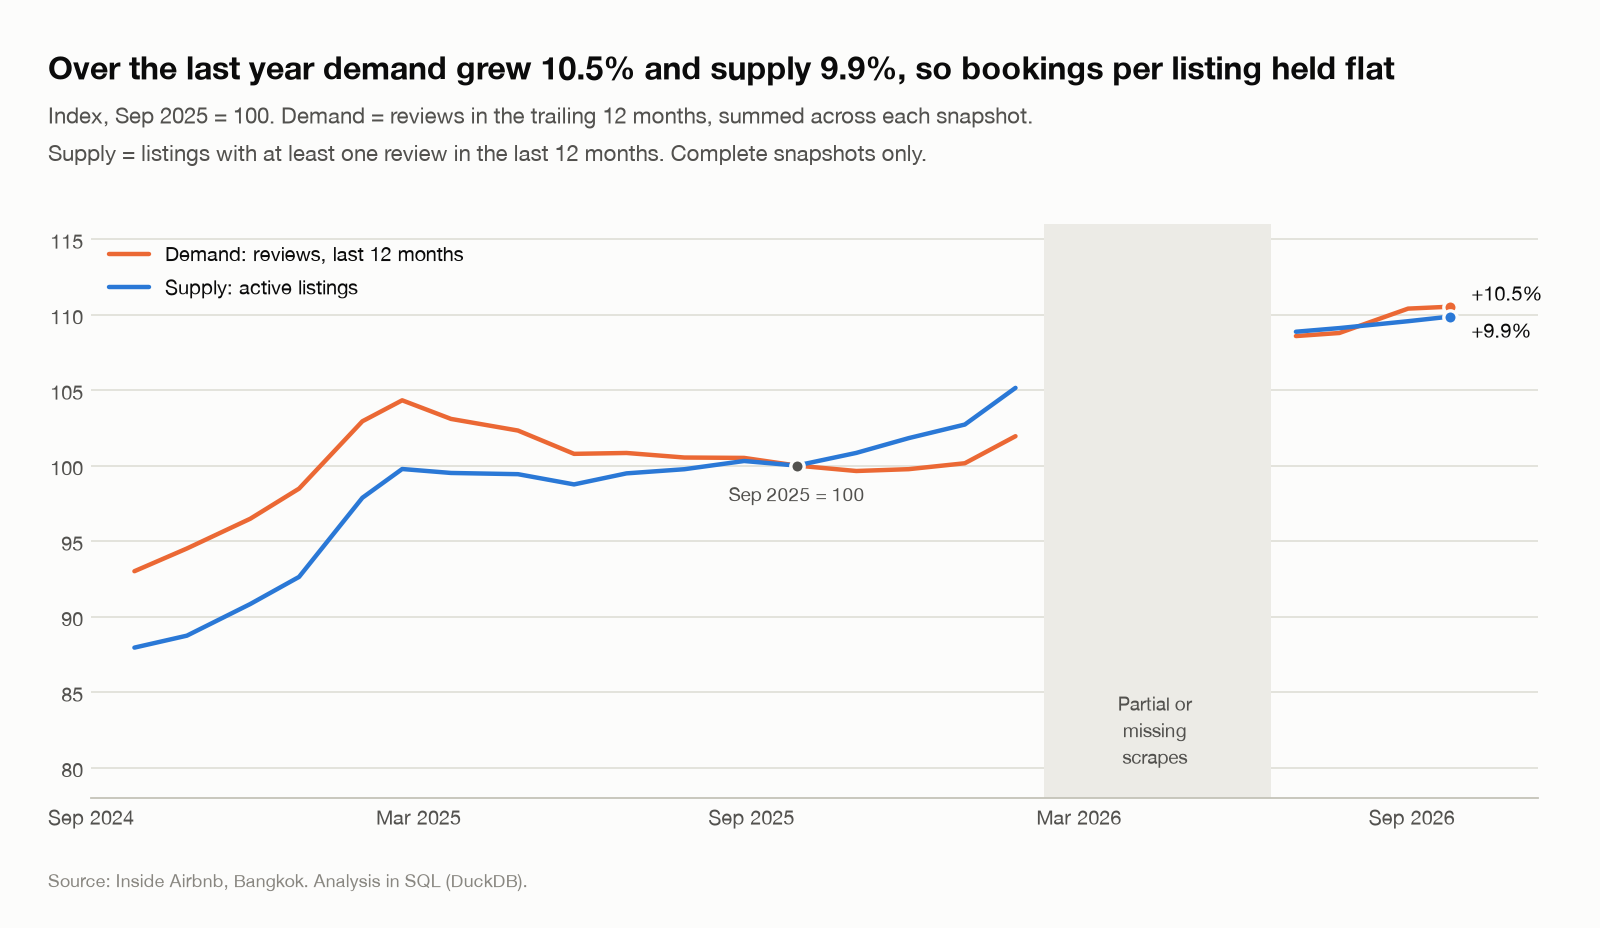
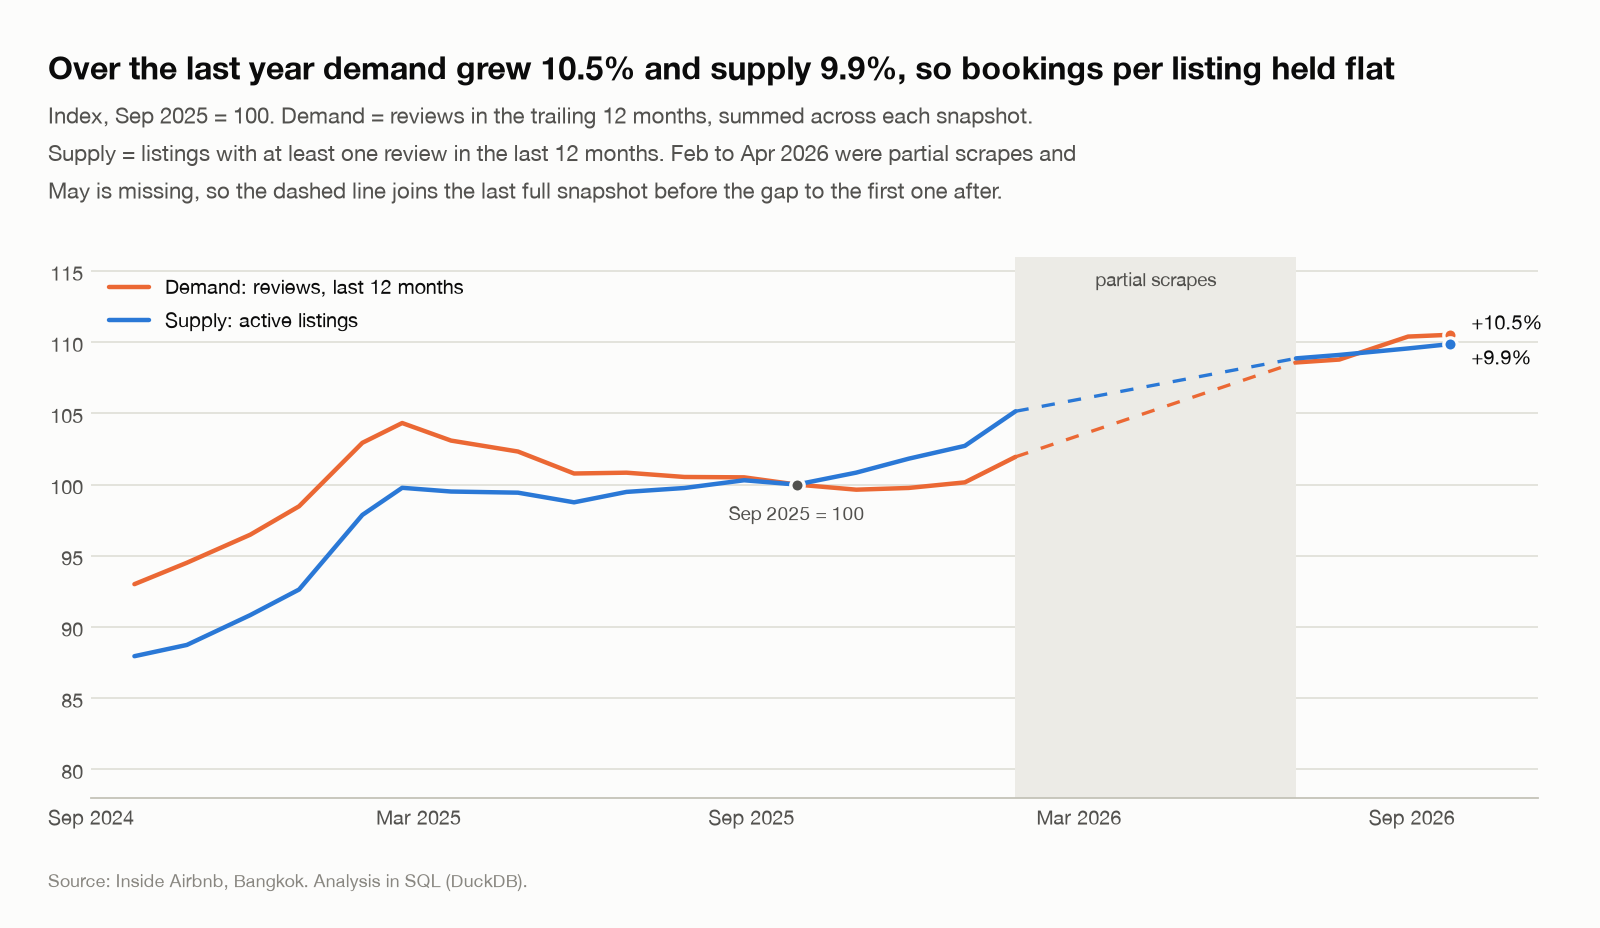
take the partial-scrape gap from the data and join it with a dashed line

diff --git a/docs/index.html b/docs/index.html
@@ -186,7 +186,7 @@ tbody tr:hover, tbody tr.hl { background: var(--wash); }
 
     <section class="card span-7">
       <h2 id="trend-title">Demand and supply over two years</h2>
-      <p class="desc">Index, Sep 2025 = 100. Demand is reviews in the trailing 12 months across every listing in a snapshot; supply is listings with a review in the last 12 months. Partial snapshots are left out.</p>
+      <p class="desc">Index, Sep 2025 = 100. Demand is reviews in the trailing 12 months across every listing in a snapshot; supply is listings with a review in the last 12 months. Feb to Apr 2026 were partial scrapes and May is missing, so the dashed line joins the last full snapshot before the gap to the first one after.</p>
       <div class="legend" id="trend-legend"></div>
       <div class="chart" id="trend"></div>
     </section>
@@ -524,7 +524,13 @@ tbody tr:hover, tbody tr.hl { background: var(--wash); }
     const end = full[full.length - 1];
     document.getElementById("trend-title").textContent =
       `Over the last year demand grew ${(end.demand - 100).toFixed(1)}% and supply ${(end.supply - 100).toFixed(1)}%`;
-    const gapStart = parse("2026-02-10"), gapEnd = parse("2026-06-15");
+    // the gap runs from the last full snapshot before the first partial one
+    // to the first full snapshot after the last partial one
+    const firstPartial = rows.findIndex((d) => !d.is_complete);
+    const lastPartial = rows.map((d) => !d.is_complete).lastIndexOf(true);
+    const gapFrom = firstPartial > 0 ? rows.slice(0, firstPartial).reverse().find((d) => d.is_complete) : null;
+    const gapTo = lastPartial >= 0 ? rows.slice(lastPartial + 1).find((d) => d.is_complete) : null;
+    const hasGap = Boolean(gapFrom && gapTo);
     const series = [
       { key: "demand", label: "Demand: reviews, last 12 months", colour: css("--orange") },
       { key: "supply", label: "Supply: active listings", colour: css("--blue") },
@@ -538,19 +544,31 @@ tbody tr:hover, tbody tr.hl { background: var(--wash); }
     el.innerHTML = "";
     const svg = d3.select(el).append("svg").attr("width", w).attr("height", h)
       .attr("role", "img").attr("aria-label", "Indexed lines of demand and active supply, Sep 2024 to Sep 2026");
-    svg.append("rect").attr("x", x(gapStart)).attr("width", x(gapEnd) - x(gapStart)).attr("y", m.t).attr("height", h - m.t - m.b).attr("fill", css("--no-data"));
+    if (hasGap) {
+      const bx = x(gapFrom.date), bw = x(gapTo.date) - x(gapFrom.date);
+      svg.append("rect").attr("x", bx).attr("width", bw).attr("y", m.t).attr("height", h - m.t - m.b).attr("fill", css("--no-data"));
+      // label at the top of the band, on two lines when the band is narrow
+      const label = svg.append("text").attr("class", "lbl").attr("text-anchor", "middle").style("font-size", "10.5px")
+        .attr("x", bx + bw / 2).attr("y", m.t + 13);
+      (bw < 84 ? ["partial", "scrapes"] : ["partial scrapes"]).forEach((t, i) =>
+        label.append("tspan").attr("x", bx + bw / 2).attr("dy", i ? 12 : 0).text(t));
+    }
     svg.append("g").selectAll("line").data(y.ticks(6)).join("line").attr("class", "gridline")
       .attr("x1", m.l).attr("x2", w - m.r).attr("y1", (d) => y(d)).attr("y2", (d) => y(d));
     svg.append("g").attr("class", "axis").attr("transform", `translate(0,${h - m.b})`)
       .call(d3.axisBottom(x).ticks(d3.timeMonth.every(w < 520 ? 12 : 6)).tickFormat(d3.timeFormat("%b %Y")).tickSize(0).tickPadding(8));
     svg.append("g").attr("class", "axis").attr("transform", `translate(${m.l},0)`)
       .call(d3.axisLeft(y).ticks(6).tickSize(0).tickPadding(8));
-    // draw before and after the gap as separate lines so nothing is drawn through missing months
-    const parts = [full.filter((d) => d.date < gapStart), full.filter((d) => d.date > gapEnd)];
+    // solid lines on each side of the gap, meeting its edges; a dashed join across it
+    const parts = hasGap ? [full.filter((d) => d.date <= gapFrom.date), full.filter((d) => d.date >= gapTo.date)] : [full];
     const line = (k) => d3.line().x((d) => x(d.date)).y((d) => y(d[k]));
     series.forEach((s) => {
       parts.forEach((part) => svg.append("path").datum(part).attr("fill", "none").attr("stroke", s.colour).attr("stroke-width", 2)
         .attr("stroke-linejoin", "round").attr("stroke-linecap", "round").attr("d", line(s.key)));
+      if (hasGap) {
+        svg.append("path").datum([gapFrom, gapTo]).attr("fill", "none").attr("stroke", s.colour).attr("stroke-width", 1.5)
+          .attr("stroke-dasharray", "4 4").attr("d", line(s.key));
+      }
       const last = full[full.length - 1];
       svg.append("circle").attr("cx", x(last.date)).attr("cy", y(last[s.key])).attr("r", 4).attr("fill", s.colour).attr("stroke", css("--surface")).attr("stroke-width", 2);
       svg.append("text").attr("class", "lbl-strong").attr("x", x(last.date) + 8).attr("y", y(last[s.key]) + (s.key === "demand" ? -6 : 8))

diff --git a/scripts/make_charts.py b/scripts/make_charts.py
@@ -329,17 +329,27 @@ def supply_demand():
         f"Over the last year demand grew {last.demand - 100:.1f}% and supply {last.supply - 100:.1f}%, "
         "so bookings per listing held flat",
         "Index, Sep 2025 = 100. Demand = reviews in the trailing 12 months, summed across each snapshot.\n"
-        "Supply = listings with at least one review in the last 12 months. Complete snapshots only.",
+        "Supply = listings with at least one review in the last 12 months. Feb to Apr 2026 were partial scrapes and\n"
+        "May is missing, so the dashed line joins the last full snapshot before the gap to the first one after.",
     )
-    ax.axvspan(pd.Timestamp("2026-02-10"), pd.Timestamp("2026-06-15"), color=NO_DATA, lw=0)
-    ax.text(pd.Timestamp("2026-04-12"), 79.5, "Partial or\nmissing\nscrapes", ha="center",
-            va="bottom", fontsize=8.5, color=INK_2, linespacing=1.3)
-    gap = pd.Timestamp("2026-03-01")
+    # the gap runs from the last full snapshot before the first partial one to the
+    # first full snapshot after the last partial one
+    partial = m.index[~m.is_complete]
+    before, after = m.loc[:partial.min() - 1], m.loc[partial.max() + 1:]
+    gap_from = before[before.is_complete].iloc[-1]
+    gap_to = after[after.is_complete].iloc[0]
+    ax.axvspan(gap_from.snapshot_date, gap_to.snapshot_date, color=NO_DATA, lw=0)
+    ax.text(gap_from.snapshot_date + (gap_to.snapshot_date - gap_from.snapshot_date) / 2, 115.2, "partial scrapes",
+            ha="center", va="top", fontsize=8.5, color=INK_2)
     for col, label, c in [("demand", "Demand: reviews, last 12 months", ORANGE),
                           ("supply", "Supply: active listings", BLUE)]:
-        for part in (full[full.snapshot_date < gap], full[full.snapshot_date > gap]):
+        # solid on each side, meeting the band's edges; dashed across it
+        for k, part in enumerate((full[full.snapshot_date <= gap_from.snapshot_date],
+                                  full[full.snapshot_date >= gap_to.snapshot_date])):
             ax.plot(part.snapshot_date, part[col], color=c, lw=2, solid_capstyle="round",
-                    label=label if part.snapshot_date.iloc[0] < gap else None)
+                    label=label if k == 0 else None)
+        ax.plot([gap_from.snapshot_date, gap_to.snapshot_date], [gap_from[col], gap_to[col]], color=c, lw=1.5,
+                linestyle=(0, (4, 4)))
         last = full.iloc[-1]
         ax.scatter([last.snapshot_date], [last[col]], s=36, color=c, zorder=3,
                    edgecolor=SURFACE, linewidth=1.5)
